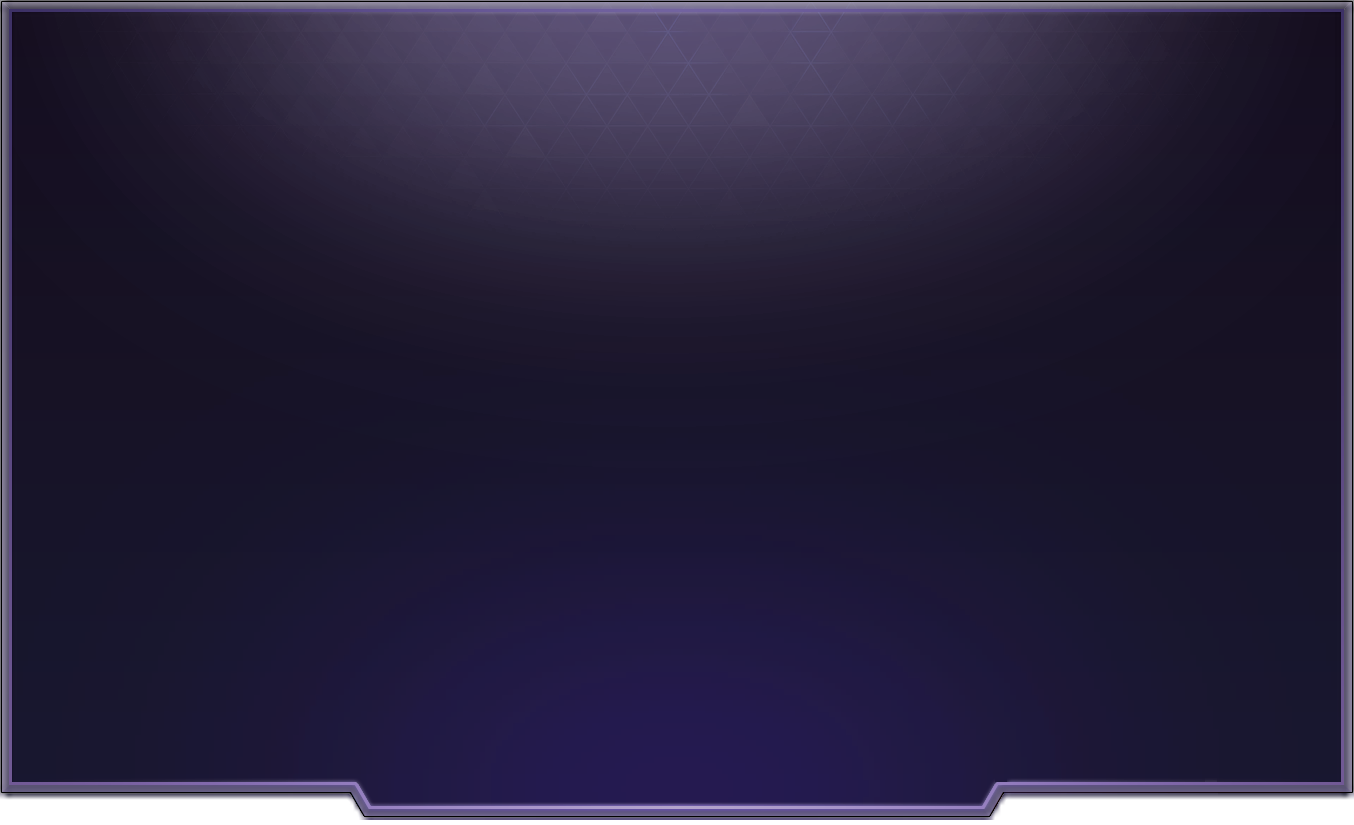
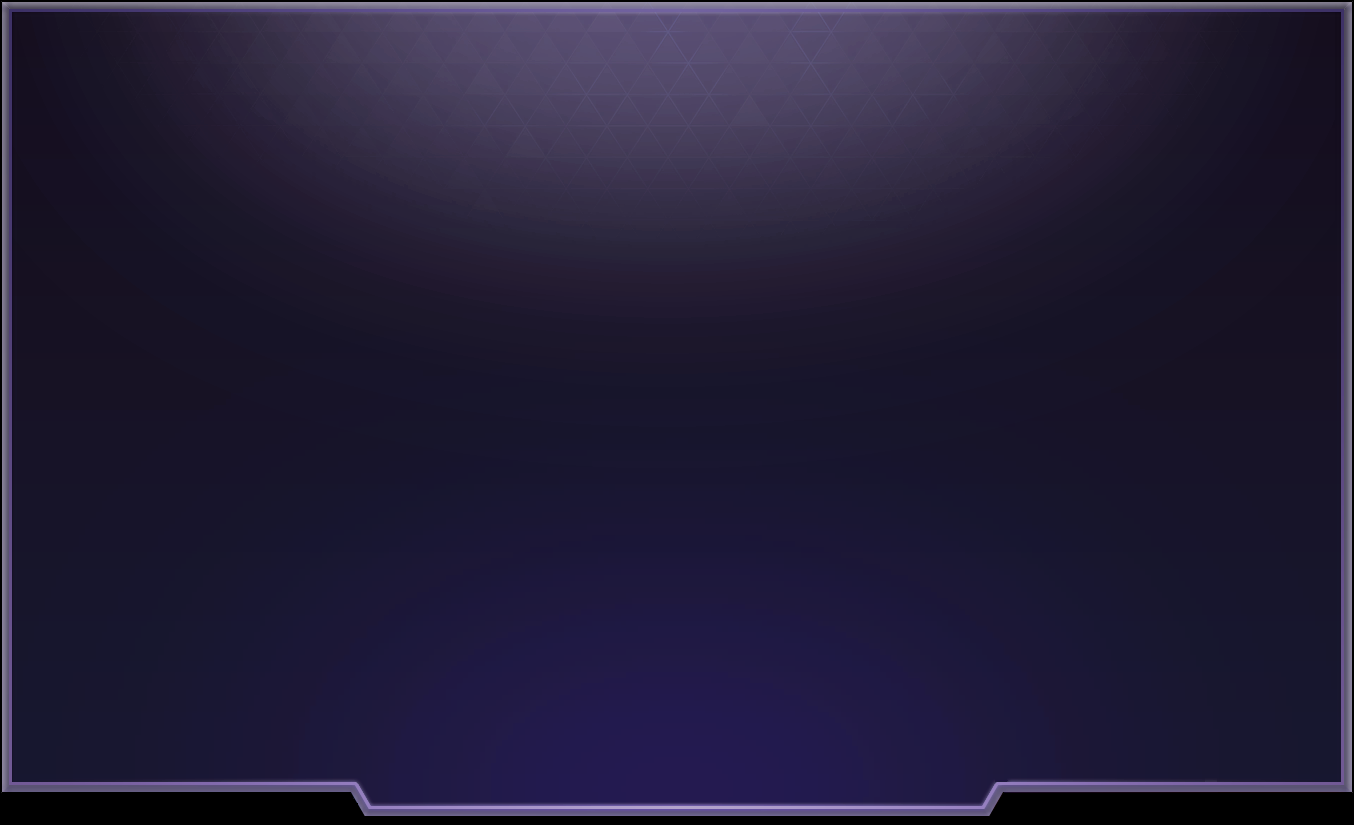
v 0.16.0
- Добавлен новый параметр в config - send_url_to_console. Дублирует все ссылки в консоль
- Изменены цвета оконтовки у матчей в списке сыгранных игр
- Изменены цвета у информации о матче в списке сыгранных игр
- Добавлена директория maps для иконок карт
- Удалена директория /test и файлы, находящиеся в ней
- Скорректированы надписи для большей детализации того, что происходит
- Обновлён фон у всех генерируемых картинок

Changed region(s): [[0.0, 0.9394, 1.0, 1.0], [0.9926, 0.0, 1.0, 0.0303]]

diff --git a/visual/upload.py b/visual/upload.py
@@ -25,50 +25,56 @@ def upload_file(full_name, file_name, replace_file=False, ftp_unique_path=False)
             url = upload_file_imgur(full_name)
 
     elif upl == 2:
-        ftp = FTP(httshots.config.ftp_ip)
-        ftp.login(httshots.config.ftp_login, httshots.config.ftp_passwd)
-        real_pwd = f"www/{httshots.config.site_name}/{httshots.config.ftp_folder}"
-        if not ftp_unique_path:
-            pwd = prepare_ftp_folders(ftp)
-        else:
-            ftp.cwd(ftp_unique_path)
-            pwd = ftp.pwd()
-        if replace_file:
-            folders = ftp.nlst()
-            if file_name in folders:
-                ftp.voidcmd('DELE '+file_name)
-        with open(full_name, 'rb') as upload_file:
-            ftp.storbinary('STOR '+file_name, upload_file)
-        real_pwd += pwd
-        tmp = '/'.join(real_pwd.split('/')[1:])
-        url = f'{tmp}/{file_name}'
+        with FTP(httshots.config.ftp_ip) as ftp:
+            ftp.login(httshots.config.ftp_login, httshots.config.ftp_passwd)
+            real_pwd = f"www/{httshots.config.site_name}/{httshots.config.ftp_folder}"
+            if not ftp_unique_path:
+                pwd = prepare_ftp_folders(ftp)
+            else:
+                ftp.cwd(ftp_unique_path)
+                pwd = ftp.pwd()
+            if replace_file:
+                folders = ftp.nlst()
+                if file_name in folders:
+                    ftp.voidcmd('DELE '+file_name)
+            with open(full_name, 'rb') as upload_file:
+                ftp.storbinary('STOR '+file_name, upload_file)
+            real_pwd += pwd
+            tmp = '/'.join(real_pwd.split('/')[1:])
+            url = f'{tmp}/{file_name}'
     return url
 
 
 def prepare_ftp_folders(ftp):
     cur_game = httshots.cur_game
     folders = ftp.nlst()
+    # day
     if not cur_game[0] in folders:
         ftp.mkd(cur_game[0])
     ftp.cwd(cur_game[0])
     folders = ftp.nlst()
+    # time
     if not cur_game[1] in folders:
         ftp.mkd(cur_game[1])
     ftp.cwd(cur_game[1])
     return ftp.pwd()
 
 
-def remove_file(file_name, ftp_unique_path=False):
-    ftp = FTP(httshots.config.ftp_ip)
-    ftp.login(httshots.config.ftp_login, httshots.config.ftp_passwd)
-    if not ftp_unique_path:
-        prepare_ftp_folders(ftp)
-    else:
-        ftp.cwd(f"{ftp_unique_path}")
+def remove_file(file_name, _path):
+    with FTP(httshots.config.ftp_ip) as ftp:
+        ftp.login(httshots.config.ftp_login, httshots.config.ftp_passwd)
+        ftp.cwd(str(_path))
 
-    folders = ftp.nlst()
-    if file_name in folders:
-        ftp.voidcmd('DELE '+file_name)
+        folders = ftp.nlst()
+        if file_name in folders:
+            ftp.voidcmd('DELE '+file_name)
+
+
+def rename_file(source, destination):
+    with FTP(httshots.config.ftp_ip) as ftp:
+        ftp.login(httshots.config.ftp_login, httshots.config.ftp_passwd)
+        ftp.sendcmd('RNFR ' + source)
+        ftp.sendcmd('RNTO ' + destination)
 
 
 def upload_file_imgur(file_name):

diff --git a/visual/games.py b/visual/games.py
@@ -13,6 +13,7 @@ from httshots import httshots as hots
 # ======================================================================
 WHITE = (255,255,255)
 BTEAM = (105,156,249)
+GREEN = (105,249,105)
 RTEAM = (234,140,140)
 
 
@@ -102,24 +103,24 @@ def add_games(image, replays):
                 tmp = tmp.resize((48, 48))
                 image.paste(tmp, (320, add+(x*rng)+4), mask=tmp)
 
-        draw.text((380, add+(x*rng)+20), replay.info.details.title, color, font=hots.fonts.default)
+        draw.text((380, add+(x*rng)+20), replay.info.details.title, WHITE, font=hots.fonts.default)
 
         if team_id == 0:
             tmp = hots.strings['GameTeamBlue']
-            draw.text((675, add+(x*rng)+20), tmp, color, font=hots.fonts.default)
+            draw.text((675, add+(x*rng)+20), tmp, BTEAM, font=hots.fonts.default)
         else:
             tmp = hots.strings['GameTeamRed']
-            draw.text((675, add+(x*rng)+20), tmp, color, font=hots.fonts.default)
+            draw.text((675, add+(x*rng)+20), tmp, RTEAM, font=hots.fonts.default)
 
         if player.result == 1:
             tmp = hots.strings['GameResultWin']
-            draw.text((825, add+(x*rng)+20), tmp, color, font=hots.fonts.default)
+            draw.text((825, add+(x*rng)+20), tmp, GREEN, font=hots.fonts.default)
         else:
             tmp = hots.strings['GameResultLose']
-            draw.text((825, add+(x*rng)+20), tmp, color, font=hots.fonts.default)
+            draw.text((825, add+(x*rng)+20), tmp, RTEAM, font=hots.fonts.default)
 
         draw.text((1000, add+(x*rng)+20), f"{str(time//60).zfill(2)}:{str(time%60).zfill(2)}",
-                  color, font=hots.fonts.default)
+                  WHITE, font=hots.fonts.default)
 
         solo_kill = str(player.solo_kill)
         shift = get_shift(solo_kill)
@@ -206,5 +207,6 @@ def create_image(*args):
 
     hots.print_log('ImageUploadGames')
     url = hots.visual.upload.upload_file(hots.paths.screens / _name, _name)
-
+    if hots.config.send_url_to_console:
+        hots.print_log('SendUrl', url)
     return url

diff --git a/bot/replays.py b/bot/replays.py
@@ -20,7 +20,10 @@ async def send_replay_info(replay_name):
         httshots.check_talents_task = None
         httshots.bot.tracker.old_talents = None
         httshots.visual.upload.remove_file('gametalents.png', 'curgame')
+        dest = httshots.cur_game[0] + '/' + httshots.cur_game[1] + '/info.log'
+        httshots.visual.upload.rename_file('curgame/info.log', dest)
         httshots.visual.upload.remove_file('info.log', 'curgame')
+        
 
     else:
         # Если бот включен и уже идёт матч, либо самостоятельно добавлен реплей
@@ -42,6 +45,7 @@ async def send_replay_info(replay_name):
             return
 
     if info.init_data.game_options.amm_id == 0:
+        httshots.print_log('GameUviAmmId')
         return
 
     check = False
@@ -125,18 +129,21 @@ async def send_replay_info(replay_name):
         lose_text = httshots.get_end(loses, 'Loses')
         match_text = httshots.get_end(matches, 'Matches')
         streak = httshots.streak
+
+        if url_games:
+            _text = 'GamesInfoMoreWithStats'
+        else:
+            _text = 'GamesInfoMore'
+
         if streak[1] == 1:
             streak_text = httshots.strings[streak[0]][1]
+            _text += 'NoStreak'
         else:
             streak_text = httshots.strings[streak[0]][2]
-        if url_games:
-            text = httshots.strings['GamesInfoMoreWithStats'].format(
-                    matches, match_text, wins, win_text, loses,
-                    lose_text, streak[1], streak_text, url_games)
-        else:
-            text = httshots.strings['GamesInfoMore'].format(
-                    matches, match_text, wins, win_text,
-                    loses, lose_text, streak[1], streak_text)
+
+        text = httshots.strings[_text].format(
+                matches, match_text, wins, win_text, loses,
+                lose_text, streak[1], streak_text, url=url_games)
 
     httshots.print_log('SendReplayInfo')
 

diff --git a/httshots.py b/httshots.py
@@ -17,15 +17,14 @@ from imgurpython import ImgurClient
 from PIL import ImageFont
 
 # Httshots
-from . import bot
-from . import parser, visual, test
+from . import bot, parser, visual
 
 
 # ======================================================================
 # >> GLOBAL VARIABLES
 # ======================================================================
 pkg_name = "HTTSHoTS"
-pkg_version = "0.15.0"
+pkg_version = "0.16.0"
 pkg_author = "MrMalina"
 
 # initialization of constant
@@ -108,6 +107,9 @@ def load(argv:list) -> None:
         elif 'EN_REPLAY' in argv:
             config.replay_language = 'en'
             print_log('ParamReplayEn')
+        elif 'URL_TO_CONSOLE' in argv:
+            config.send_url_to_console = 1
+            print_log('ParamUrlToConsole')
 
     hero_data = HeroData(str(current_dir / 'files' / 'herodata.json'))
     htts_data = DataStrings(str(current_dir / 'data' / 'data.ini'), config.replay_language)
@@ -137,6 +139,7 @@ def load(argv:list) -> None:
     paths.add('heroes', main_path / "heroes")
     paths.add('talents', main_path / "talents")
     paths.add('mvp', main_path / "mvp")
+    paths.add('maps', main_path / "maps")
 
     # Fonts
     ascii_ttf = paths.ttf / 'Exo2-Bold.ttf'

diff --git a/visual/match_adv.py b/visual/match_adv.py
@@ -62,7 +62,6 @@ def create_icons(image, map_name):
     tmp = Image.open(hots.paths.stats / 'adv_globes.png').convert('RGBA')
     image.paste(tmp, (1040, y), mask=tmp)
 
-
     # Альтеракский перевал = 1
     # Небесный храм = 2
     # Вечная битва = 3
@@ -263,5 +262,6 @@ def create_image(replay):
 
     hots.print_log('ImageUploadMatchAdv')
     url = hots.visual.upload.upload_file(hots.paths.screens / _name, _name)
-
+    if hots.config.send_url_to_console:
+        hots.print_log('SendUrl', url)
     return url

diff --git a/visual/battlelobby.py b/visual/battlelobby.py
@@ -82,5 +82,6 @@ def create_image(info):
 
     hots.print_log('ImageUploadBattleLobby')
     url = hots.visual.upload.upload_file(hots.paths.screens / _name, _name)
-
+    if hots.config.send_url_to_console:
+        hots.print_log('SendUrl', url)
     return url

diff --git a/visual/talents.py b/visual/talents.py
@@ -189,5 +189,6 @@ def create_image(replay):
 
     hots.print_log('ImageUploadTalents')
     url = hots.visual.upload.upload_file(hots.paths.screens / _name, _name)
-
+    if hots.config.send_url_to_console:
+        hots.print_log('SendUrl', url)
     return url

diff --git a/visual/match.py b/visual/match.py
@@ -316,5 +316,6 @@ def create_image(replay):
 
     hots.print_log('ImageUploadMatch')
     url = hots.visual.upload.upload_file(hots.paths.screens / _name, _name)
-
+    if hots.config.send_url_to_console:
+        hots.print_log('SendUrl', url)
     return url

diff --git a/visual/tracker.py b/visual/tracker.py
@@ -142,7 +142,6 @@ def create_image(players):
     hots.print_log('ImageUploadTracker', tmp)
     url = hots.visual.upload.upload_file(hots.paths.screens / _name,
                                  _name, True, 'curgame')
-
     return url
 
 
